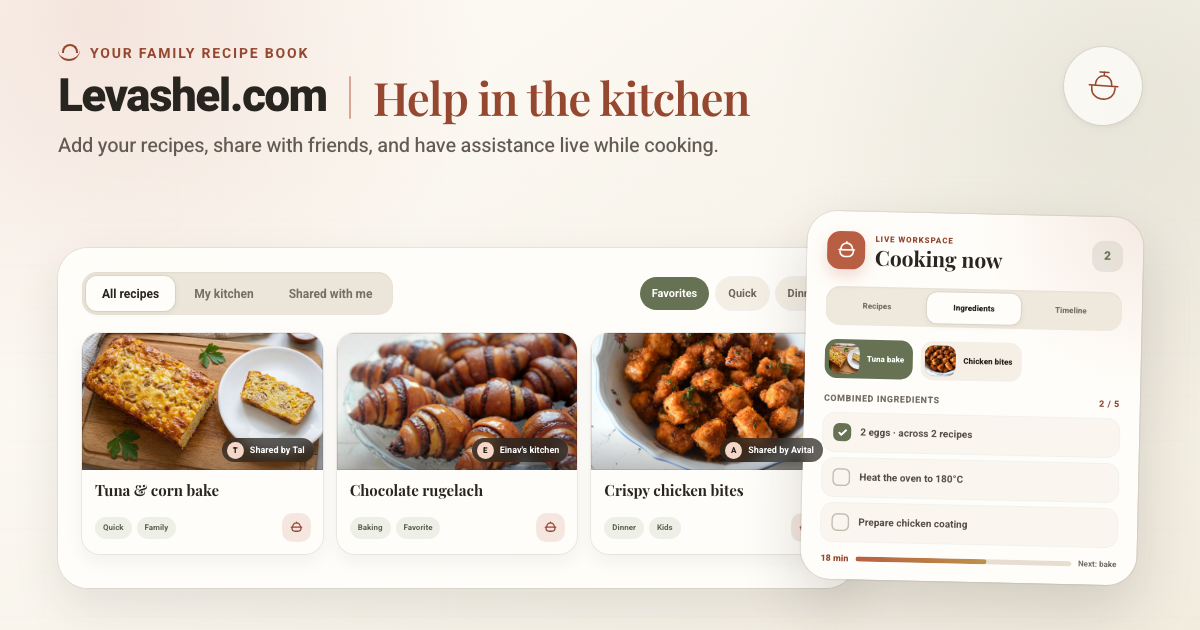
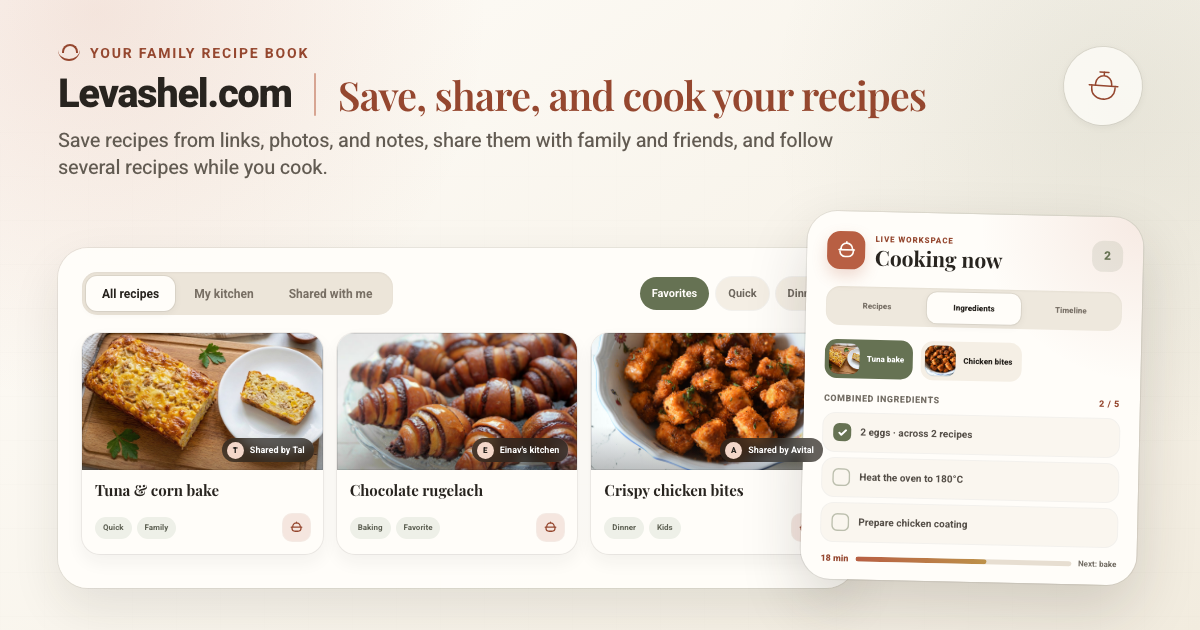
Refine Levashel social sharing copy

Changed region(s): [[0.0308, 0.1206, 0.7708, 0.3016]]

diff --git a/index.html b/index.html
@@ -5,26 +5,26 @@
   <meta name="viewport" content="width=device-width, initial-scale=1.0, viewport-fit=cover">
   <title>ספר המתכונים של טל</title>
   <link rel="canonical" href="https://levashel.com/">
-  <meta name="description" content="Add your recipes, share with friends, and have assistance live while cooking.">
+  <meta name="description" content="Save recipes from links, photos, and notes, share them with family and friends, and follow several recipes while you cook.">
 
   <!-- Social sharing -->
   <meta property="og:type" content="website">
   <meta property="og:site_name" content="Levashel.com">
   <meta property="og:locale" content="en_US">
   <meta property="og:url" content="https://levashel.com/">
-  <meta property="og:title" content="Levashel.com | Help in the kitchen">
-  <meta property="og:description" content="Add your recipes, share with friends, and have assistance live while cooking.">
-  <meta property="og:image" content="https://levashel.com/og-card.png">
-  <meta property="og:image:secure_url" content="https://levashel.com/og-card.png">
+  <meta property="og:title" content="Levashel.com | Save, share, and cook your recipes">
+  <meta property="og:description" content="Save recipes from links, photos, and notes, share them with family and friends, and follow several recipes while you cook.">
+  <meta property="og:image" content="https://levashel.com/og-card.png?v=2">
+  <meta property="og:image:secure_url" content="https://levashel.com/og-card.png?v=2">
   <meta property="og:image:type" content="image/png">
   <meta property="og:image:width" content="1200">
   <meta property="og:image:height" content="630">
   <meta property="og:image:alt" content="Levashel recipe library and live cooking workspace">
 
   <meta name="twitter:card" content="summary_large_image">
-  <meta name="twitter:title" content="Levashel.com | Help in the kitchen">
-  <meta name="twitter:description" content="Add your recipes, share with friends, and have assistance live while cooking.">
-  <meta name="twitter:image" content="https://levashel.com/og-card.png">
+  <meta name="twitter:title" content="Levashel.com | Save, share, and cook your recipes">
+  <meta name="twitter:description" content="Save recipes from links, photos, and notes, share them with family and friends, and follow several recipes while you cook.">
+  <meta name="twitter:image" content="https://levashel.com/og-card.png?v=2">
   <meta name="twitter:image:alt" content="Levashel recipe library and live cooking workspace">
 
   <!-- PWA / iOS Home Screen -->

diff --git a/scripts/og-card.html b/scripts/og-card.html
@@ -78,7 +78,7 @@
     }
 
     .brand-copy {
-      max-width: 880px;
+      max-width: 950px;
     }
 
     .kicker {
@@ -118,7 +118,7 @@
       align-items: center;
       gap: 22px;
       margin: 0;
-      font-size: 46px;
+      font-size: 40px;
       font-weight: 800;
       line-height: 1.05;
       letter-spacing: -0.035em;
@@ -646,9 +646,9 @@
         <h1>
           <span class="domain">Levashel.com</span>
           <span class="title-rule" aria-hidden="true"></span>
-          <span class="promise">Help in the kitchen</span>
+          <span class="promise">Save, share, and cook your recipes</span>
         </h1>
-        <p class="description">Add your recipes, share with friends, and have assistance live while cooking.</p>
+        <p class="description">Save recipes from links, photos, and notes, share them with family and friends, and follow several recipes while you cook.</p>
       </div>
       <div class="brand-seal" aria-hidden="true">
         <svg viewBox="0 0 48 48">

diff --git a/test/og-card.test.js b/test/og-card.test.js
@@ -2,9 +2,9 @@ import assert from 'node:assert/strict';
 import { readFileSync } from 'node:fs';
 import test from 'node:test';
 
-const expectedTitle = 'Levashel.com | Help in the kitchen';
+const expectedTitle = 'Levashel.com | Save, share, and cook your recipes';
 const expectedDescription =
-  'Add your recipes, share with friends, and have assistance live while cooking.';
+  'Save recipes from links, photos, and notes, share them with family and friends, and follow several recipes while you cook.';
 
 test('publishes a complete large-image social sharing card', () => {
   const html = readFileSync('index.html', 'utf8');
@@ -20,7 +20,7 @@ test('publishes a complete large-image social sharing card', () => {
   );
   assert.match(
     html,
-    /<meta property="og:image" content="https:\/\/levashel\.com\/og-card\.png">/
+    /<meta property="og:image" content="https:\/\/levashel\.com\/og-card\.png\?v=2">/
   );
   assert.match(
     html,
